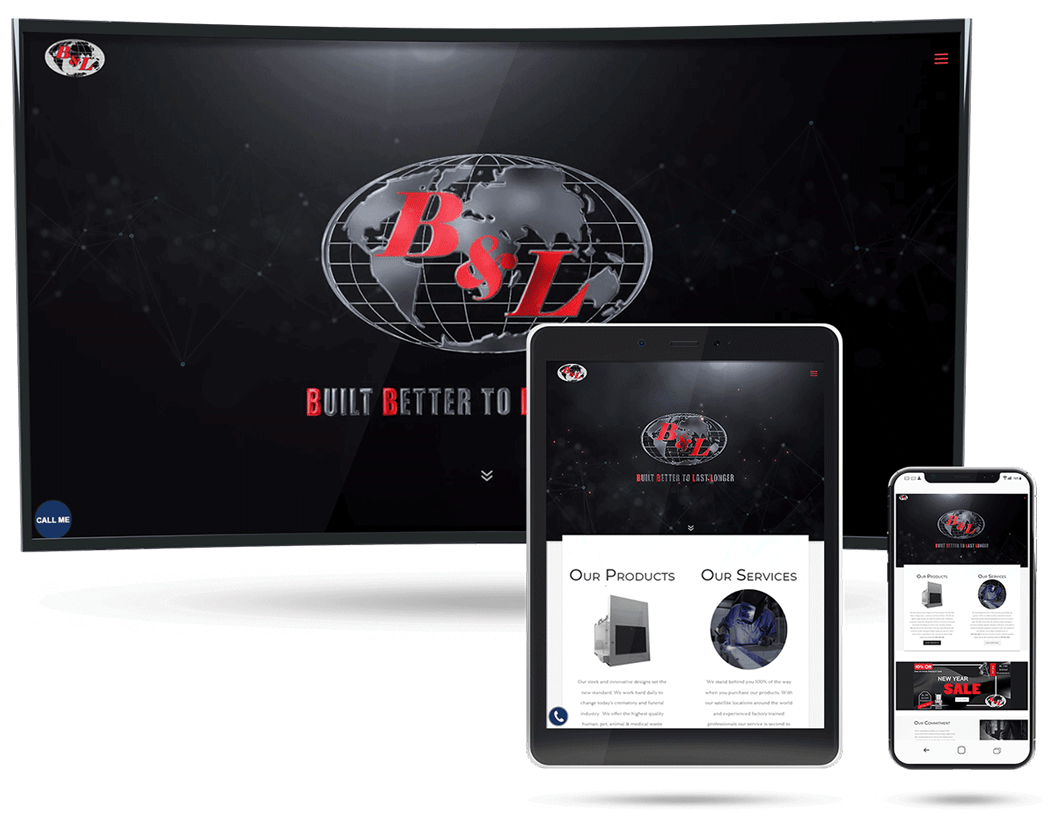
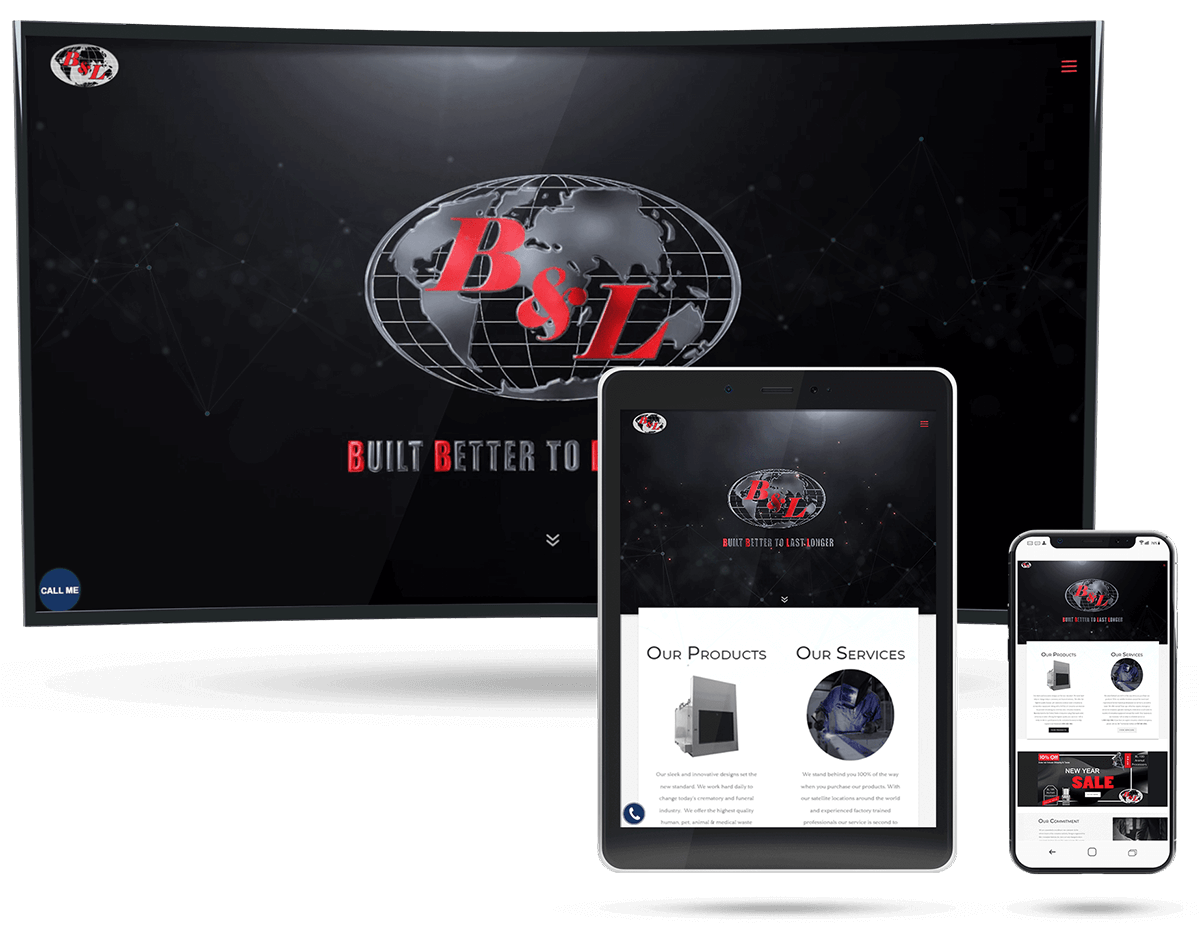
images compressed and updated

diff --git a/indexNew.html b/indexNew.html
@@ -317,25 +317,24 @@
     <h3 class="heading-2 mb-sm"><span class="cnt">Contact</span></h3>
     <form class="contact_form" action="https://formspree.io/mail.4kreative@gmail.com" method="POST">
       <div class="form__group">
-        <input name="name" type="text" class="form__input" placeholder="Full name" id="name" required="required"
-          data-aos="fade-right" />
+        <input name="name" type="text" class="form__input" placeholder="Full name" id="name" required="required" />
         <label for="name" class="form__label">Full name</label>
       </div>
 
       <div class="form__group">
         <input name="email" name="_replyto" type="email" class="form__input" placeholder="Email address" id="email"
-          required="required" data-aos="fade-right" />
+          required="required" />
         <label for="email" class="form__label">Email address</label>
       </div>
 
       <div class="form__group">
         <textarea name="message" rows="6" class="form__input" id="message" name="message"
-          placeholder="Tell us about your project (Scope, timeline, budget, etc." name="message" required="required"
-          data-aos="fade-right"></textarea>
+          placeholder="Tell us about your project (Scope, timeline, budget, etc." name="message"
+          required="required"></textarea>
         <label for="message" class="form__label"> Message</label>
       </div>
 
-      <button class="form__btn btn" data-aos="fade-up">Send Request!</button>
+      <button class="form__btn btn">Send Request!</button>
 
     </form>
 
